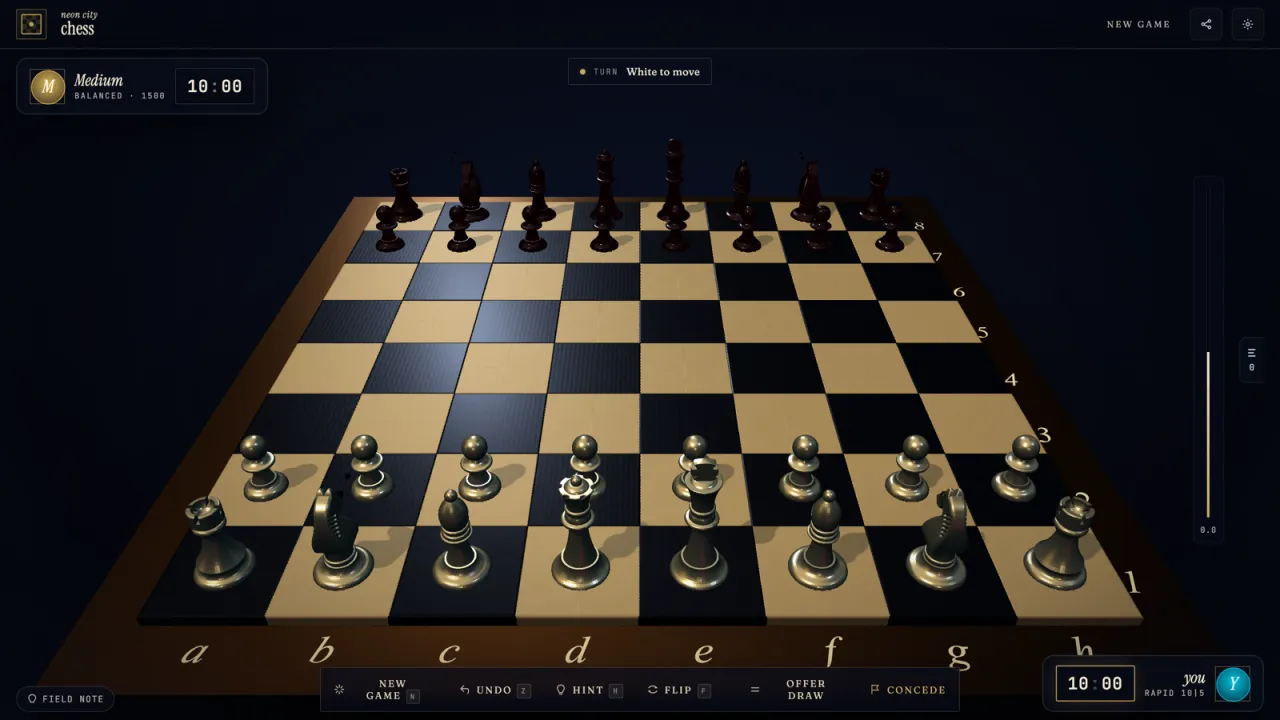
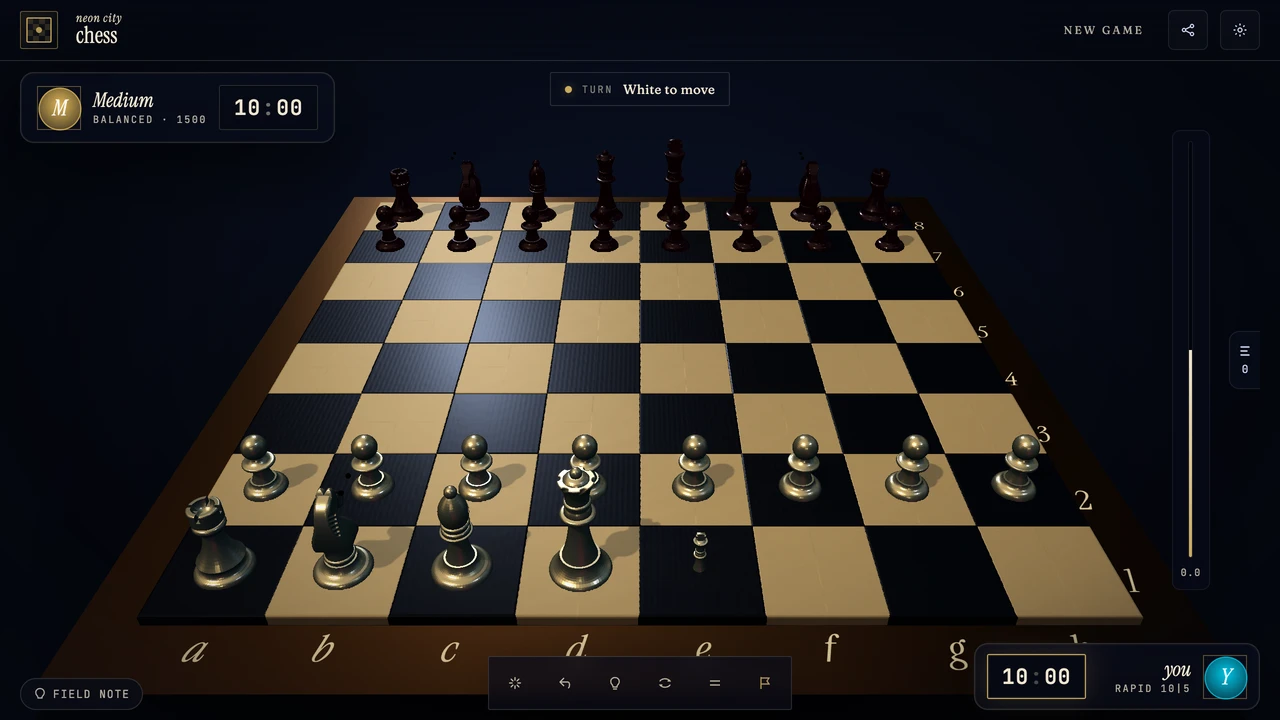
Portfolio: fresh live screenshots + layout + pill polish
- Replace all 4 project images with fresh Playwright captures from live
  demos (2x → downscaled to 1280×720 and 720×405 webp)
- CherryTree spans full width as final card (was stranded alone in half-row)
- Left-align all card content, metrics, and actions (center on multi-line
  descriptions created ragged both-sides — broke readability)
- Metric pills: full border-radius (100px), gold label color, lighter weight

diff --git a/src/editorial.css b/src/editorial.css
@@ -943,6 +943,11 @@ a {
   min-height: 420px;
 }
 
+/* Last card that sits alone in its row also spans full width */
+.project-grid--symmetrical .reveal:not(:first-child):last-child:nth-child(even) {
+  grid-column: 1 / -1;
+}
+
 .project-card {
   position: relative;
   height: 100%;
@@ -1077,9 +1082,9 @@ a {
   padding: 24px;
   display: flex;
   flex-direction: column;
-  align-items: center;
+  align-items: flex-start;
   gap: 0;
-  text-align: center;
+  text-align: left;
 }
 
 /* Pin the actions row to the bottom so CTAs align across cards regardless
@@ -1137,17 +1142,16 @@ a {
 .project-metrics {
   margin: 0.85rem 0 0;
   display: flex;
-  justify-content: center;
+  justify-content: flex-start;
   flex-wrap: wrap;
   gap: 8px;
 }
 
 .project-metric {
-  min-width: 112px;
-  border: 1px solid var(--line);
-  border-radius: var(--radius-chip);
-  background: rgba(255, 255, 255, 0.028);
-  padding: 0.42rem 0.58rem;
+  border: 1px solid var(--line-strong);
+  border-radius: 100px;
+  background: rgba(255, 255, 255, 0.04);
+  padding: 0.32rem 0.82rem;
 }
 
 .project-metric dt,
@@ -1156,24 +1160,24 @@ a {
 }
 
 .project-metric dt {
-  color: var(--faint);
-  font-size: 0.66rem;
+  color: var(--gold);
+  font-size: 0.62rem;
   font-weight: var(--weight-label);
-  letter-spacing: 0.11em;
+  letter-spacing: 0.12em;
   text-transform: uppercase;
 }
 
 .project-metric dd {
-  margin-top: 0.08rem;
-  color: var(--ink-secondary);
-  font-size: 0.8rem;
-  font-weight: 800;
+  margin-top: 0.05rem;
+  color: var(--ink);
+  font-size: 0.78rem;
+  font-weight: 700;
 }
 
 .project-actions {
   margin-top: 0.35rem;
   display: flex;
-  justify-content: center;
+  justify-content: flex-start;
   flex-wrap: wrap;
   gap: 9px;
 }
